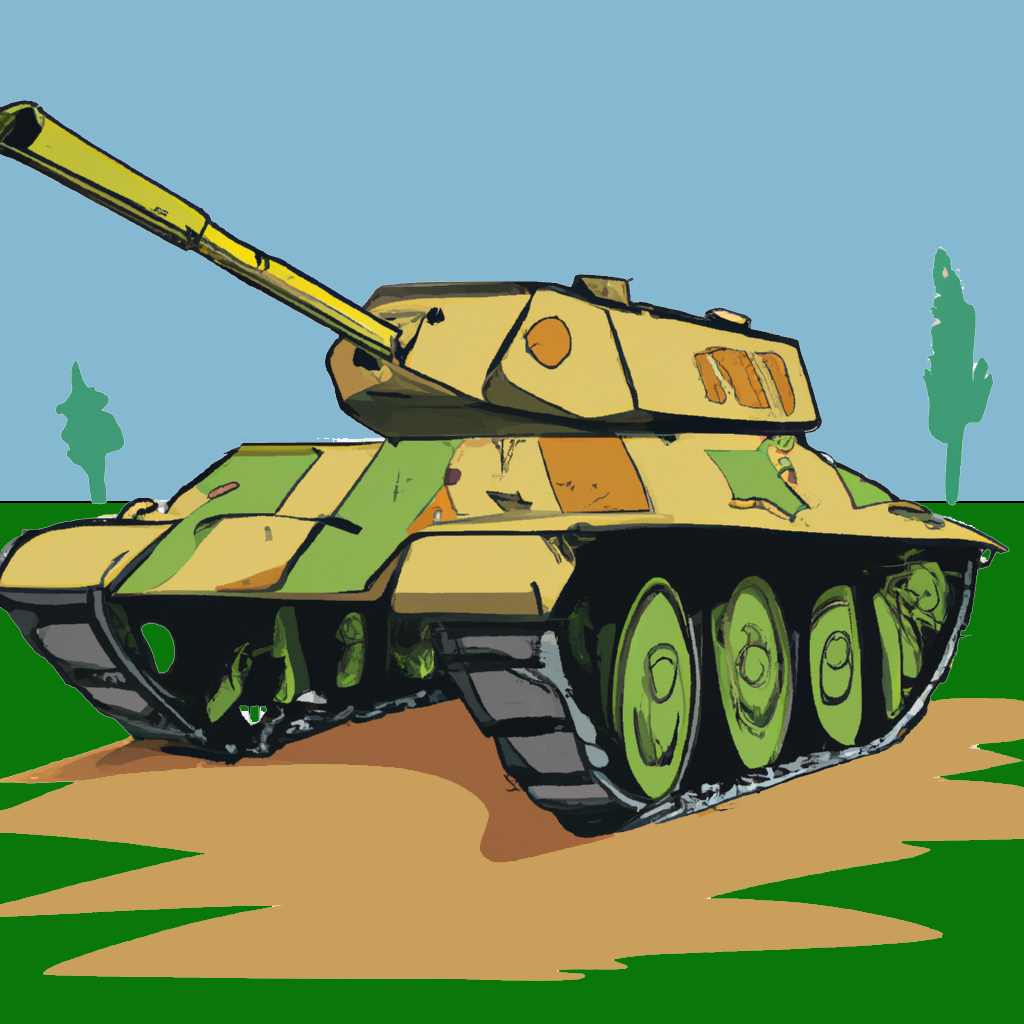
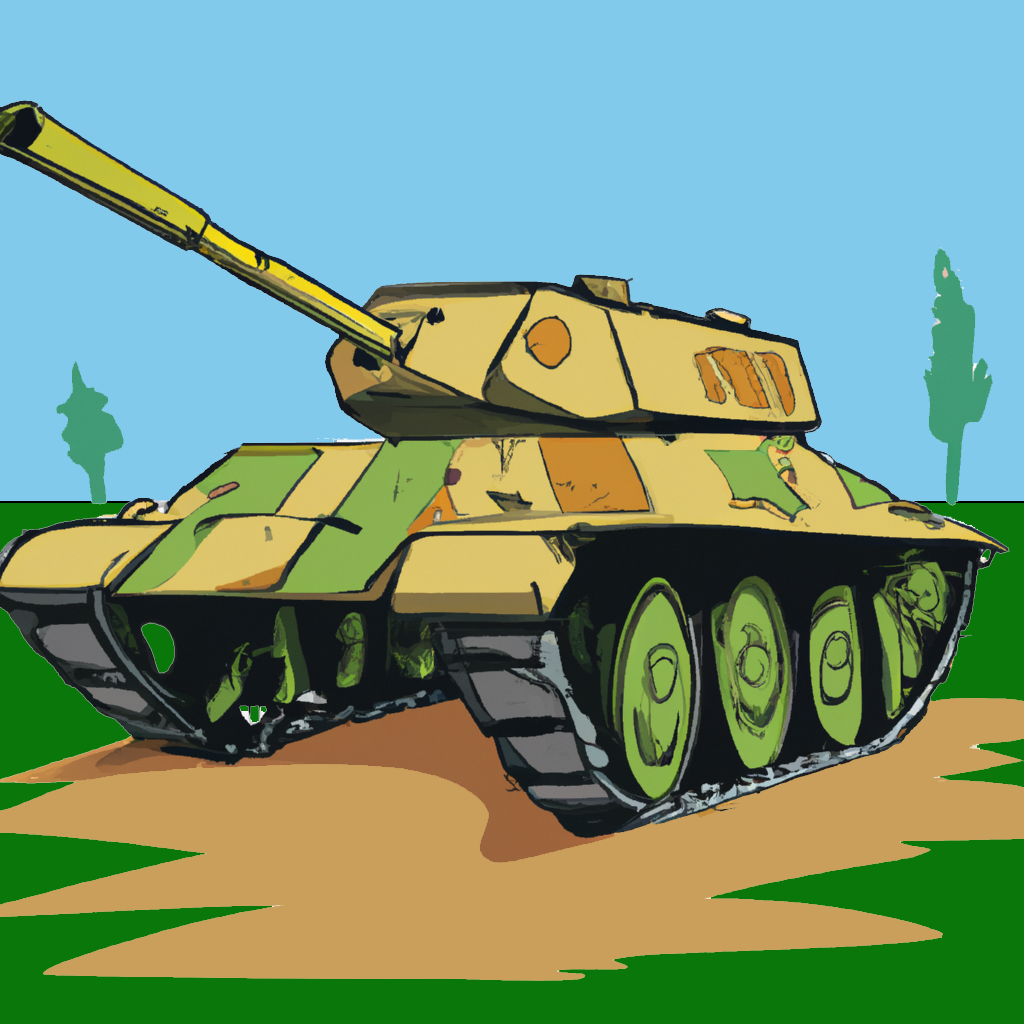
imageUpdates and increment function copied

diff --git a/resourceCalculations.js b/resourceCalculations.js
@@ -1632,7 +1632,7 @@ function calculateAvailableUpgrades(territory) {
     totalPurchaseGoldPrice += goldCost; 
     totalPopulationCost += prodPopulationCost; 
 
-    simulatedPurchaseCosts = incrementDecrementPurchases(buyTextfield, -1, purchaseRow.type, territory, true);
+    simulatedPurchaseCosts = incrementDecrementPurchases(buyTextfield, -1, purchaseRow.type, true);
 
     switch (simulatedPurchaseCosts[2]) {
         case "Infantry":
@@ -1657,7 +1657,7 @@ function calculateAvailableUpgrades(territory) {
         if (buyImageMinus.src.includes("/resources/minusButton.png")) {
             tooltipPurchaseMilitaryRow(territory, availablePurchases, e);
             if (parseInt(buyTextfield.value) > 0) {
-                simulatedPurchaseCosts = incrementDecrementPurchases(buyTextfield, -1, purchaseRow.type, territory, false);
+                simulatedPurchaseCosts = incrementDecrementPurchases(buyTextfield, -1, purchaseRow.type, false);
                 switch (simulatedPurchaseCosts[2]) {
                     case "Infantry":
                       simulatedCostsAllMilitary[0] = simulatedPurchaseCosts[0];
@@ -1711,7 +1711,7 @@ function calculateAvailableUpgrades(territory) {
     buyImagePlus.addEventListener("click", (e) => {
         if (buyImagePlus.src.includes("/resources/plusButton.png")) {
             tooltipPurchaseMilitaryRow(territory, availablePurchases, e);
-          simulatedPurchaseCosts = incrementDecrementPurchases(buyTextfield, 1, purchaseRow.type, territory, false);
+          simulatedPurchaseCosts = incrementDecrementPurchases(buyTextfield, 1, purchaseRow.type, false);
           switch (simulatedPurchaseCosts[2]) {
             case "Infantry":
               simulatedCostsAllMilitary[0] = simulatedPurchaseCosts[0];
@@ -2031,6 +2031,83 @@ function calculateAvailableUpgrades(territory) {
   });
   }
 
+  function incrementDecrementPurchases(buyTextField, increment, purchaseType, simOnly) {
+    let currentValueQuantity = parseInt(buyTextField.value);
+    currentValueQuantity += increment;
+  
+    if (currentValueQuantity < 0) {
+      currentValueQuantity = 0;
+    }
+
+    if (!simOnly) {
+        buyTextField.value = 0;
+    }
+  
+    let currentValueQuantityTemp = currentValueQuantity;
+  
+    const buyRow = buyTextField.parentNode.parentNode.parentNode.parentNode;
+    const goldCostElement = buyRow.querySelector(".upgrade-column:nth-child(4)");
+    const prodPopCostElement = buyRow.querySelector(".upgrade-column:nth-child(5)");
+
+    let infantryToBuy = 0;
+    let assaultToBuy = 0;
+    let airToBuy = 0;
+    let navalToBuy = 0;
+  
+    let purchaseGoldCost;
+    let prodPopCost;
+  
+    let simulationPurchaseCosts = []; // Array to store simulated costs
+  
+    switch (purchaseType) {
+      case "Infantry":
+        currentValueQuantityTemp += infantryToBuy;
+        purchaseGoldCost = 0;
+        prodPopCost = 10;
+        infantryToBuy += increment;
+        break;
+      case "Assault":
+        currentValueQuantityTemp += assaultToBuy;
+        purchaseGoldCost = 50;
+        prodPopCost = 100;
+        assaultToBuy += increment;
+        break;
+      case "Air":
+        currentValueQuantityTemp += airToBuy;
+        purchaseGoldCost = 100;
+        prodPopCost = 300;
+        airToBuy += increment;
+        break;
+      case "Naval":
+        currentValueQuantityTemp += navalToBuy;
+        purchaseGoldCost = 200;
+        prodPopCost = 1000;
+        navalToBuy += increment;
+        break;
+    }
+  
+    if (currentValueQuantity === 0) {
+        purchaseGoldCost = 0;
+        prodPopCost = 0;
+    }
+  
+    if (!simOnly) {
+        goldCostElement.textContent = purchaseGoldCost;
+        prodPopCostElement.textContent = prodPopCost;
+    }
+    
+      // Simulate next increment and store costs in array
+      currentValueQuantityTemp += Math.abs(increment); //always simulate clicking plus i.e. upward direction
+      const simulatedPurchaseGoldCost = Math.ceil((purchaseGoldCost * currentValueQuantityTemp) + purchaseGoldCost);
+      const simulatedProdPopCost = Math.ceil((prodPopCost * currentValueQuantityTemp) + prodPopCost);
+      const simulatedPurchaseType = purchaseType;
+      simulationPurchaseCosts.push(simulatedPurchaseGoldCost);
+      simulationPurchaseCosts.push(simulatedProdPopCost);
+      simulationPurchaseCosts.push(simulatedPurchaseType); // Include the purchase type in the array
+
+      return simulationPurchaseCosts;
+  }
+
   function incrementDecrementUpgrades(textField, increment, upgradeType, territory, simOnly) {
     let currentValueQuantity = parseInt(textField.value);
     currentValueQuantity += increment;
@@ -2115,6 +2192,7 @@ function calculateAvailableUpgrades(territory) {
       simulationCosts.push(simulatedGoldCost);
       simulationCosts.push(simulatedConsMatsCost);
       simulationCosts.push(simulatedUpgradeType); // Include the upgrade type in the array
+
       return simulationCosts;
   }
 
